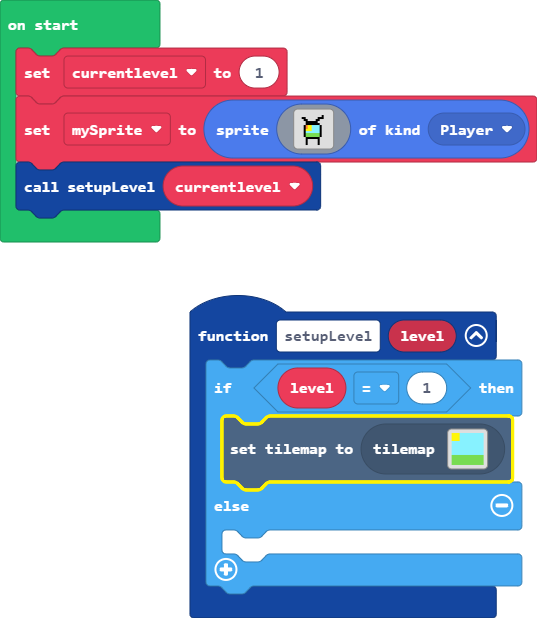
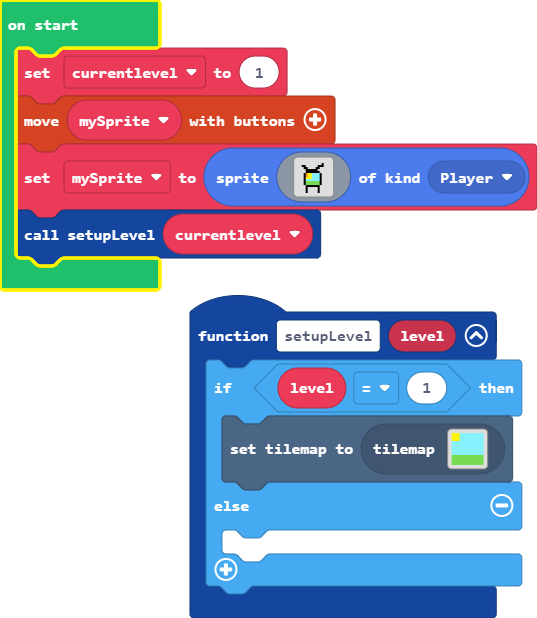
Update main.blocks, main.ts

diff --git a/main.ts b/main.ts
@@ -5,6 +5,8 @@ function setupLevel (level: number) {
     	
     }
 }
+let mySprite: Sprite = null
 let currentlevel = 1
-let mySprite = sprites.create(assets.image`tom tv`, SpriteKind.Player)
+controller.moveSprite(mySprite)
+mySprite = sprites.create(assets.image`tom tv`, SpriteKind.Player)
 setupLevel(currentlevel)
